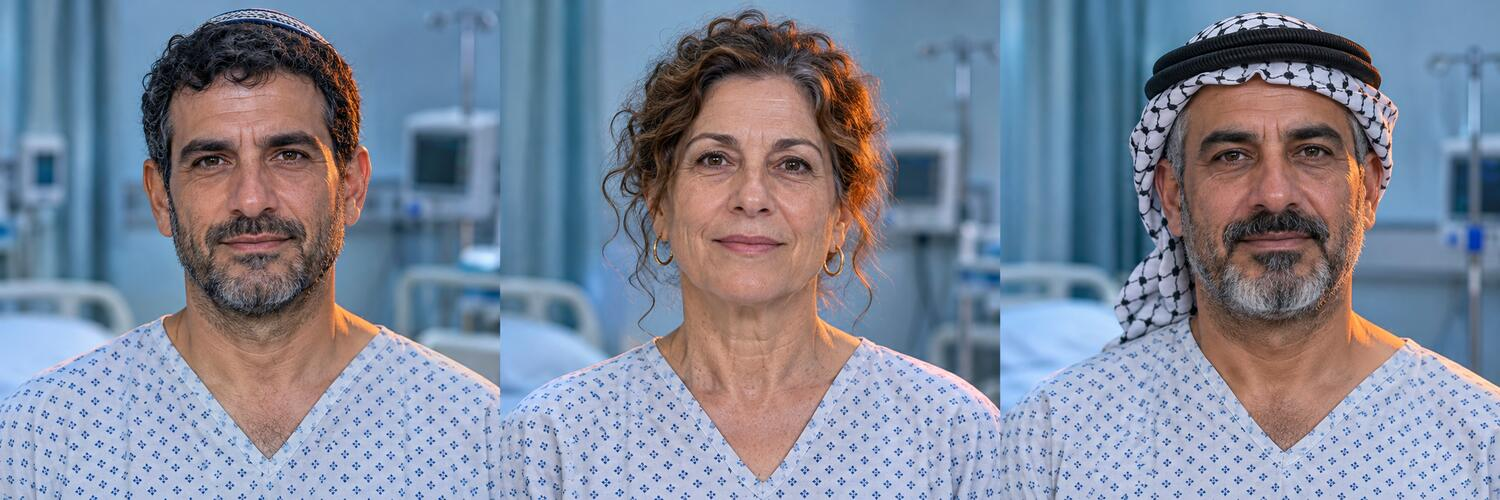
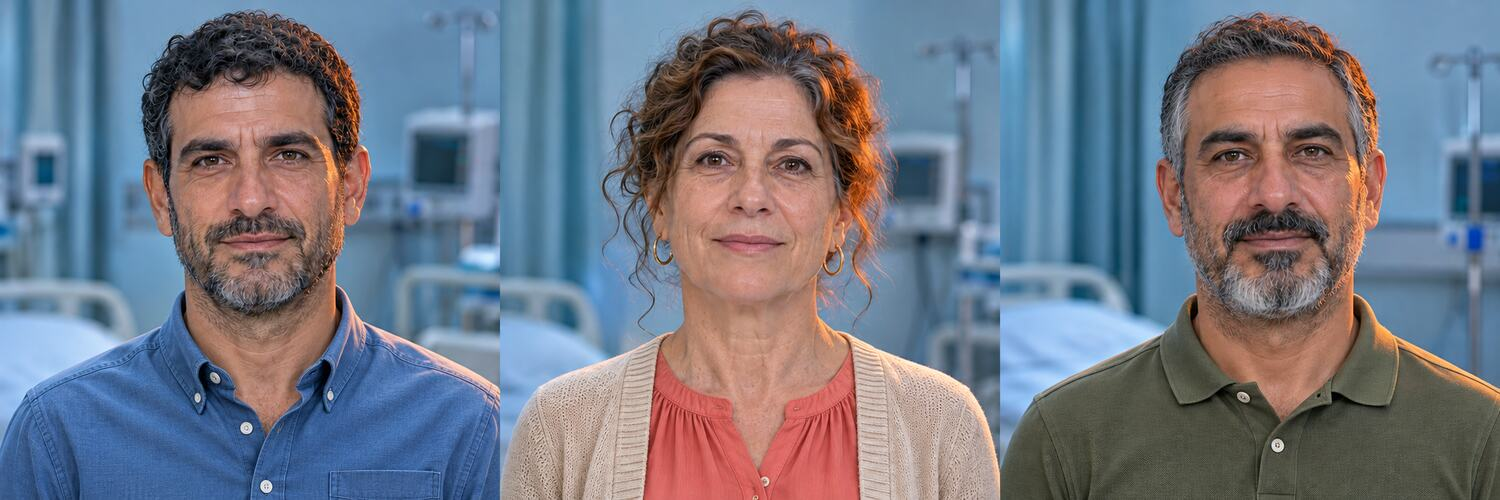
Update character clothing and simplify summary

diff --git a/app/page.tsx b/app/page.tsx
@@ -292,6 +292,7 @@ export default function Home() {
             <div className="scan-sweep" />
             <div className={`patient-photo photo-${active.image}`} role="img" aria-label={`דמות מטופל/ת בדויה: ${active.name}`}>
               <div className="image-placeholder"><span>{active.name.slice(0, 1)}</span></div>
+              {(active.image === 5 || active.image === 8) && <div className="ziv-gown-mark">זיו</div>}
               <div className="photo-badge">תיק בדוי</div>
             </div>
             <div className="patient-data">
@@ -367,7 +368,6 @@ export default function Home() {
             <div className="summary-actions">
               <button className="primary-button" onClick={reset}>משחק חוזר ↻</button>
               <button className="secondary-button" onClick={() => setScreen("map")}>צפייה במפת האבחון</button>
-              <button className="ghost-button" onClick={() => alert("המשחק הבא בסדרה: איזו בדיקה קובעת?")}>מעבר למשחק הבא ←</button>
             </div>
             <p className="disclaimer">המשחק הוא כלי לימודי ואינו מחליף שיקול דעת קליני, נהלים מקומיים או הערכה רפואית מלאה.</p>
             <p className="source">מקור: ADA Standards of Care in Diabetes—2026 · Diagnosis and Classification of Diabetes</p>

diff --git a/app/globals.css b/app/globals.css
@@ -140,6 +140,7 @@ button:focus-visible { outline: 3px solid var(--amber); outline-offset: 3px; }
 .image-placeholder span { width:94px; height:94px; display:grid; place-items:center; border-radius:50%; background:rgba(208,243,248,.1); border:1px solid rgba(200,246,250,.23); color:#b5dce8; font-size:44px; }
 .patient-photo[style], .patient-photo.has-image { background-image: var(--photo); }
 .photo-badge { position:absolute; top:12px; right:12px; padding:5px 9px; border-radius:999px; background:rgba(4,22,37,.7); border:1px solid rgba(255,255,255,.16); font-size:9px; color:#b9d0dc; }
+.ziv-gown-mark { position:absolute; left:10%; top:72%; min-width:36px; padding:3px 8px; border-radius:5px; background:#12375d; border:1px solid rgba(255,255,255,.38); color:#fff; font-size:12px; font-weight:800; letter-spacing:.04em; text-align:center; box-shadow:0 2px 8px rgba(0,0,0,.28); }
 .patient-data { padding:clamp(18px, 2.6vw, 32px); min-width:0; }
 .patient-data header { display:flex; align-items:flex-end; gap:16px; border-bottom:1px solid var(--line); padding-bottom:14px; margin-bottom:10px; }
 .patient-data header small, .lab-result small { color:#7190a6; font-size:9px; display:block; margin-bottom:4px; }
